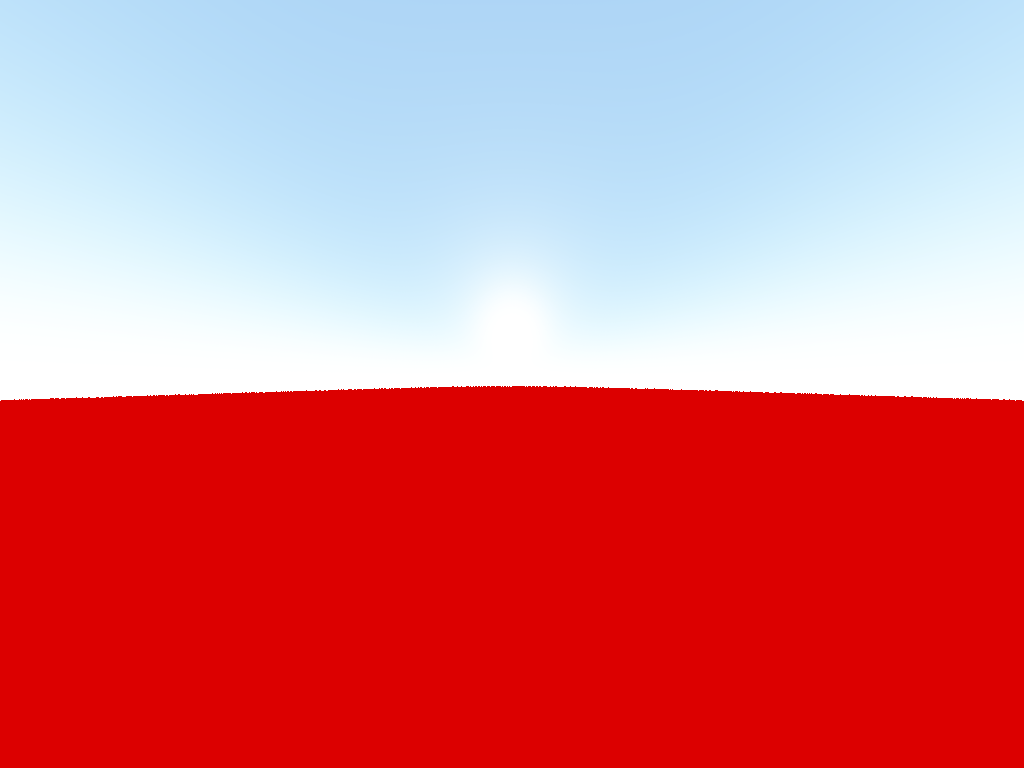
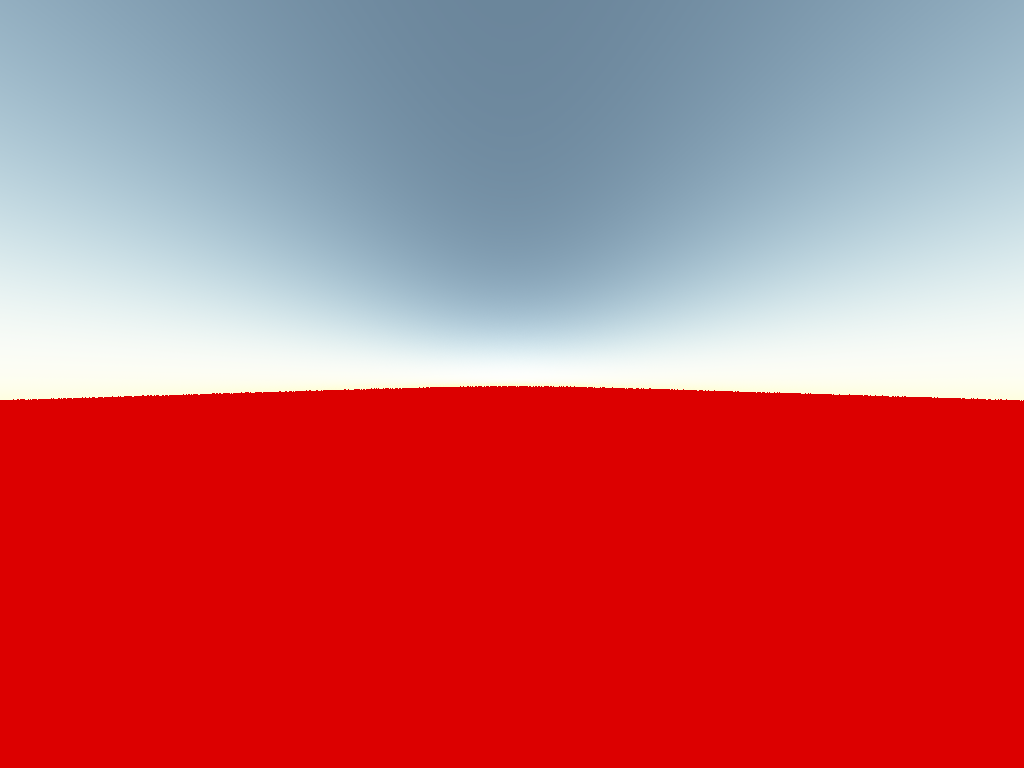
Added checks

diff --git a/src/edu/umass/cs390cg/atmosphere/ScatteringEquations.java b/src/edu/umass/cs390cg/atmosphere/ScatteringEquations.java
@@ -67,25 +67,25 @@ public class ScatteringEquations {
     }
 
 
-    private static double InScatter(Vector3d A, Vector3d B, double KConstant, double wavelength, double KPower, double G) {
-        Vector3d dir = Subtract(B, A);
+    private static double InScatter(Vector3d CameraPoint, Vector3d B, double KConstant, double wavelength, double KPower, double G) {
+        Vector3d dir = Subtract(B, CameraPoint);
         double sampleLength = dir.length() / samplesPerInScatterRay;
         double scaledLength = sampleLength * scale;
         dir.normalize();
         dir.scale(sampleLength);
 
-        Vector3d samplePoint = Add(A, Scale(dir, 0.5d));
+        Vector3d samplePoint = Add(CameraPoint, Scale(dir, 0.5d));
 
         double InscatterIntegral = 0d;
         for (int n = 0; n < samplesPerOutScatterRay; n++) {
 
-            double density = exp(scaleOverScaleDepth * (terrain.radius - height(samplePoint)));
+            double density = exp(scaleOverScaleDepth * (terrain.radius - height(samplePoint, true, "InScatter")));
 
             Vector3d PointToSun = r.scene.intersectSky(new Ray(samplePoint, r.scene.sun.d)).pos;
 
             double outscatter = exp(
                     -1d * GetOutscatter(samplePoint, PointToSun, KConstant, wavelength, KPower) -
-                            GetOutscatter(samplePoint, A, KConstant, wavelength, KPower));
+                            GetOutscatter(samplePoint, CameraPoint, KConstant, wavelength, KPower));
 
             InscatterIntegral += density * outscatter * scaledLength;
             samplePoint = Add(samplePoint, dir);
@@ -94,8 +94,10 @@ public class ScatteringEquations {
 
         // cos = lightDir dot ldir
         //TODO Ensure this is correct
-        Vector3d ScatterRayTowardsCamera = Subtract(A, B);
-        double cos = ScatterRayTowardsCamera.dot(r.scene.sun.d) / ScatterRayTowardsCamera.length();
+        Vector3d ScatterRayTowardsCamera = Subtract(CameraPoint, B);
+        ScatterRayTowardsCamera.normalize();
+
+        double cos = ScatterRayTowardsCamera.dot(r.scene.sun.d);
         //System.out.println("Cosine of angle is " + cos);
 
         double Coefficients = GetK(KConstant, wavelength, KPower) * Phase(cos, G);
@@ -103,9 +105,17 @@ public class ScatteringEquations {
     }
 
     private static double OpticalDepth(Vector3d A, Vector3d B) {
+
+        height(A, true, "OpticalA");// Debugging
+        height(B, true, "OpticalB");
+
         Vector3d dir = Subtract(B, A);
         double sampleLength = dir.length() / samplesPerOutScatterRay;
         double scaledLength = sampleLength * scale;
+
+        if(!isCloseEnough(scaledLength * samplesPerOutScatterRay/scale, dir.length(), 0.1d))
+            System.out.println(dir.length() + " length vs segmented" + scaledLength * samplesPerOutScatterRay/scale);
+
         dir.normalize();
         dir.scale(sampleLength);
 
@@ -113,7 +123,7 @@ public class ScatteringEquations {
 
         double value = 0d;
         for (int n = 0; n < samplesPerOutScatterRay; n++) {
-            double density = exp(scaleOverScaleDepth * (terrain.radius - height(samplePoint)));
+            double density = exp(scaleOverScaleDepth * (terrain.radius - height(samplePoint, false, "Optical Depth")));
             value += density * scaledLength;
             samplePoint = Add(samplePoint, dir);
         }
@@ -128,16 +138,15 @@ public class ScatteringEquations {
      * @return the altutide of this point [0,1) iif
      * the point is contained within the atmosphere.
      */
-    public static double height(Vector3d pos) {
+    public static double height(Vector3d pos, boolean checked, String from){
         double height = pos.length();
-        if (height < terrain.radius || height > sky.radius + 0.1) {
+        if (height < terrain.radius - 0.8 || height > sky.radius + 0.1) {
 
-            System.out.println("Height is actually " + height + " at " + pos);
+            if(checked)
+                System.out.println("From " + from + " height is" + height + " at " + pos);
         }
         return height;
     }
-
-
 
 
     private static double Phase(double cos, double g){

diff --git a/src/edu/umass/cs390cg/atmosphere/numerics/Vec.java b/src/edu/umass/cs390cg/atmosphere/numerics/Vec.java
@@ -50,6 +50,13 @@ public class Vec {
         return new Vector3d(-r.x, -r.y, -r.z);
     }
 
+    public static boolean isCloseEnough(double actual, double target, double tolerance) {
+        if (actual <= target + tolerance && (actual >= target - tolerance))
+            return true;
+        else
+            return false;
+    }
+
 
 
     /*
@@ -105,11 +112,6 @@ public class Vec {
 
     /*
 
-    public static boolean isCloseEnough(float actual, float target, float tolerance) {
-        if (actual <= target + tolerance && (actual >= target - tolerance))
-            return true;
-        else
-            return false;
-    }*/
+    */
 
 }

diff --git a/src/edu/umass/cs390cg/atmosphere/geom/shapes/Sky.java b/src/edu/umass/cs390cg/atmosphere/geom/shapes/Sky.java
@@ -12,7 +12,7 @@ public class Sky extends Sphere {
 
   public Vector3d calculateShading(Ray ray, HitRecord hit) {
     //System.out.println("Hit at " + hit.pos);
-    double height = ScatteringEquations.height(hit.pos);
+    double height = ScatteringEquations.height(hit.pos, true, "Sky shader");
     if (height < 200d || height > 210d) {
       System.out.println("Height is really " + height);
     }
